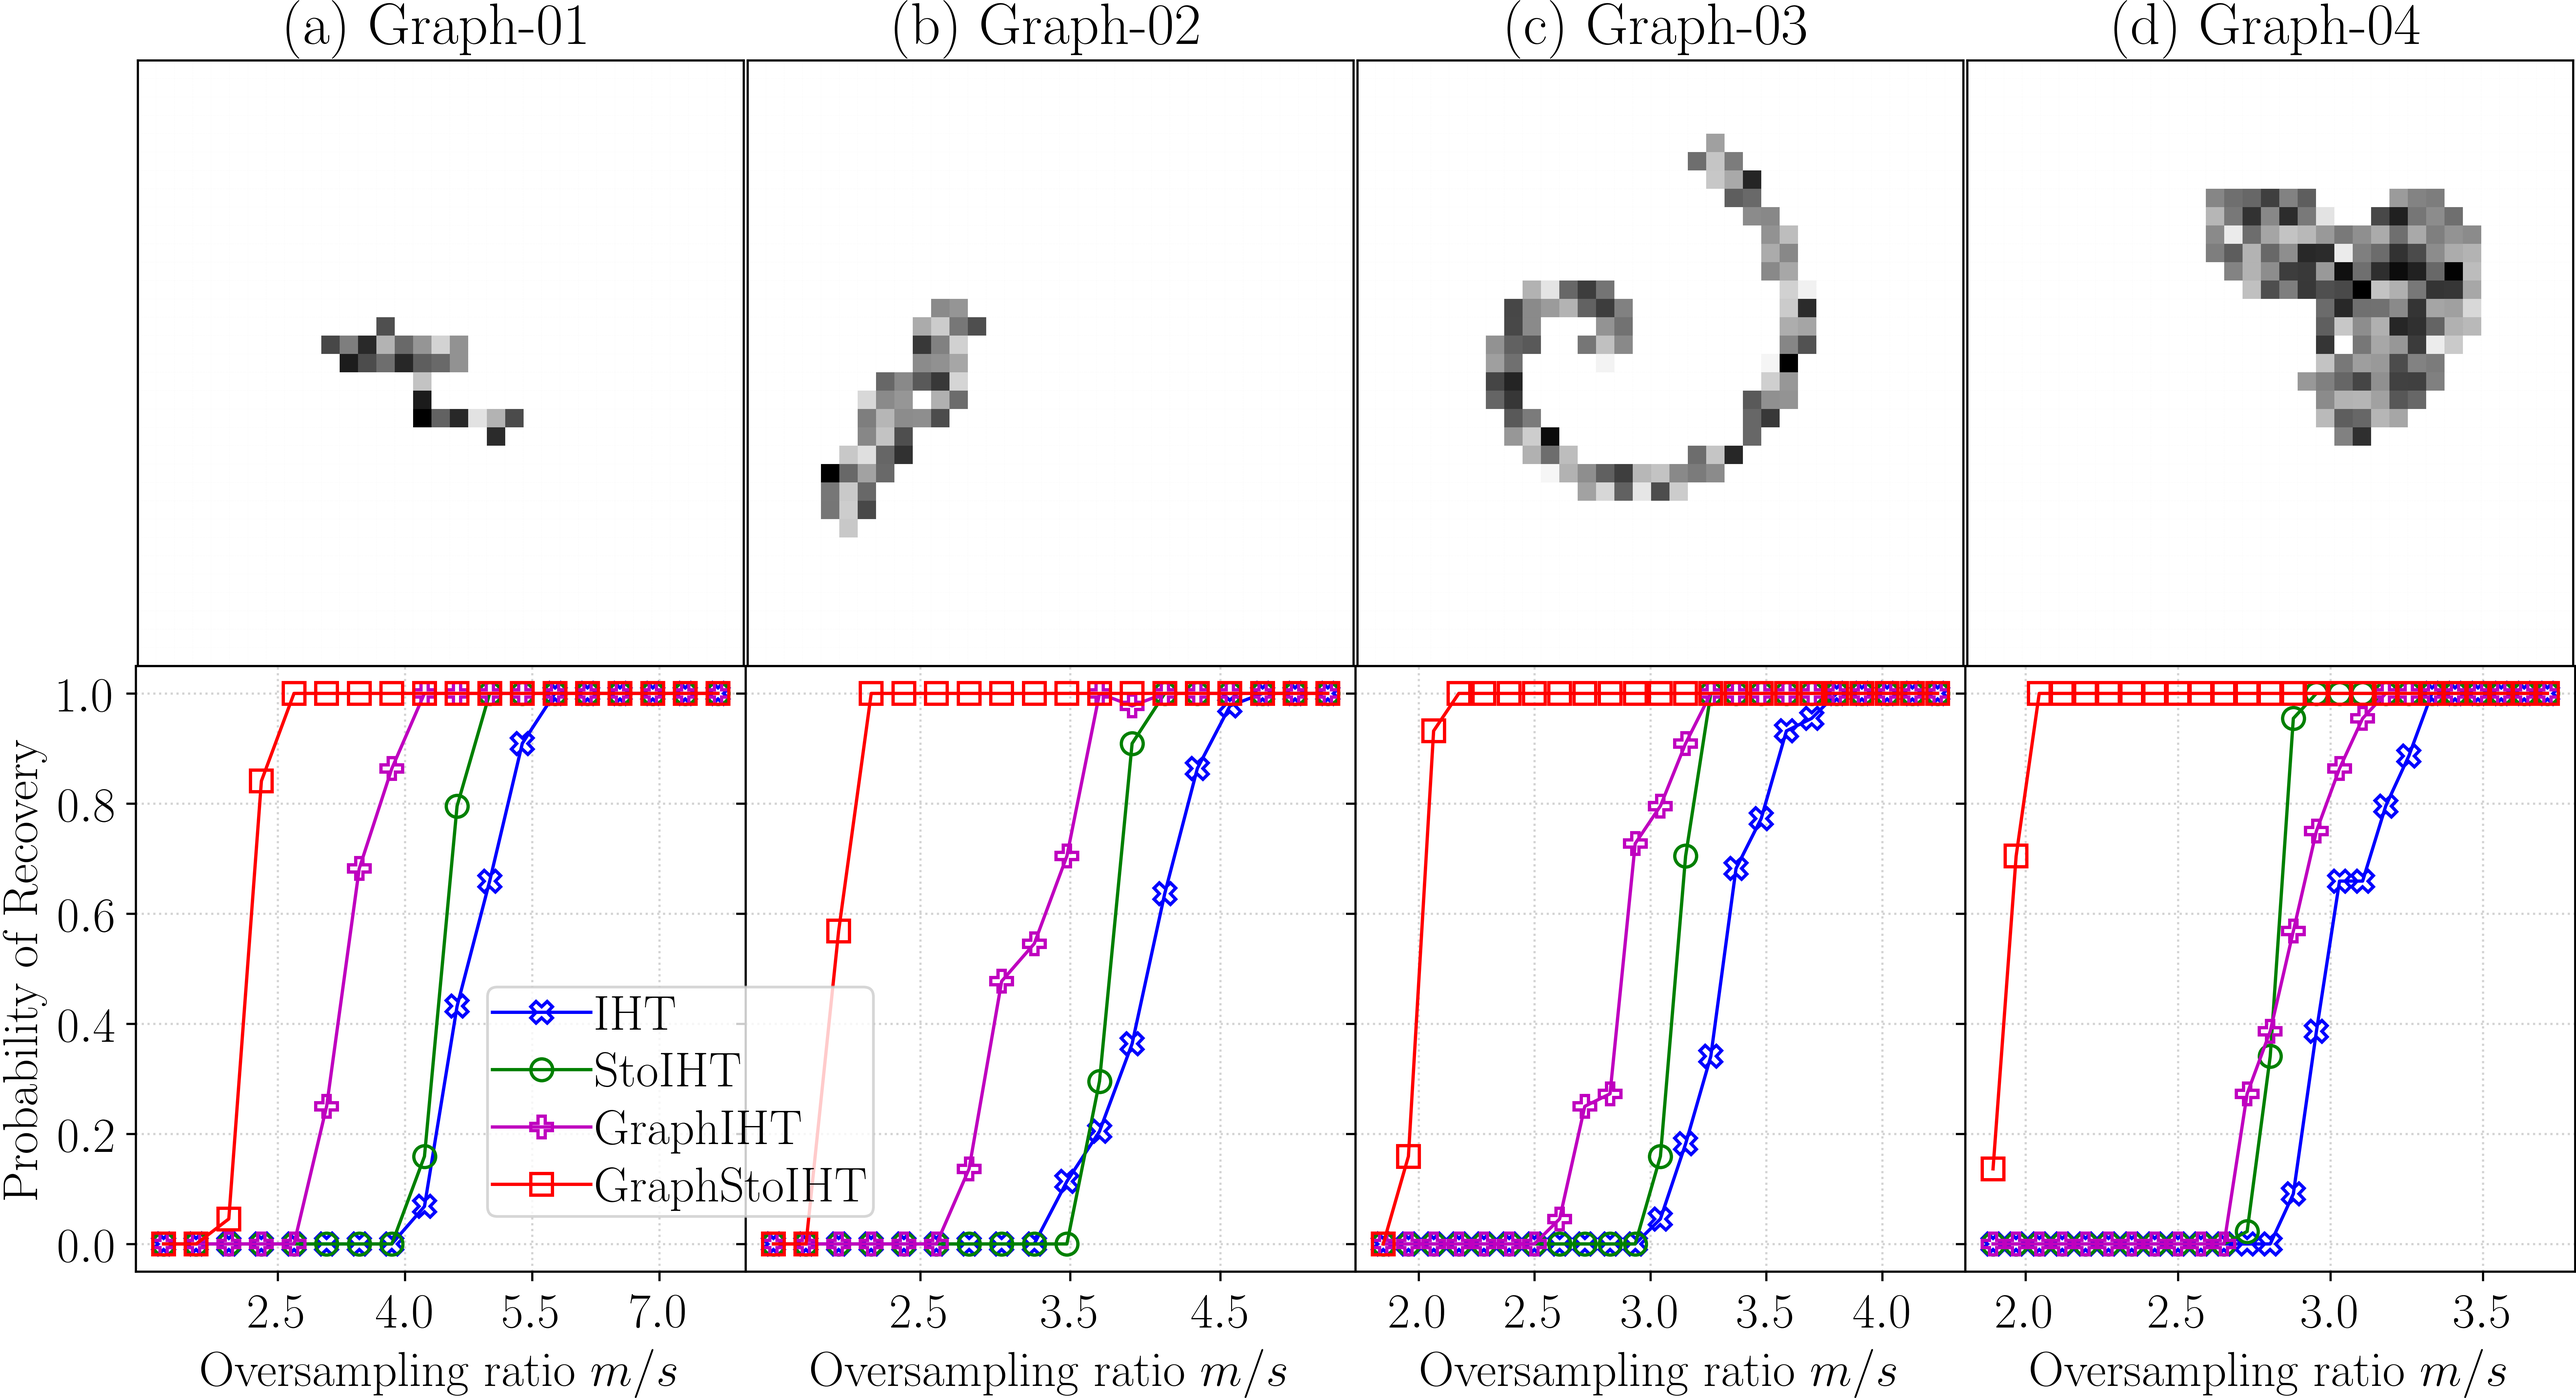
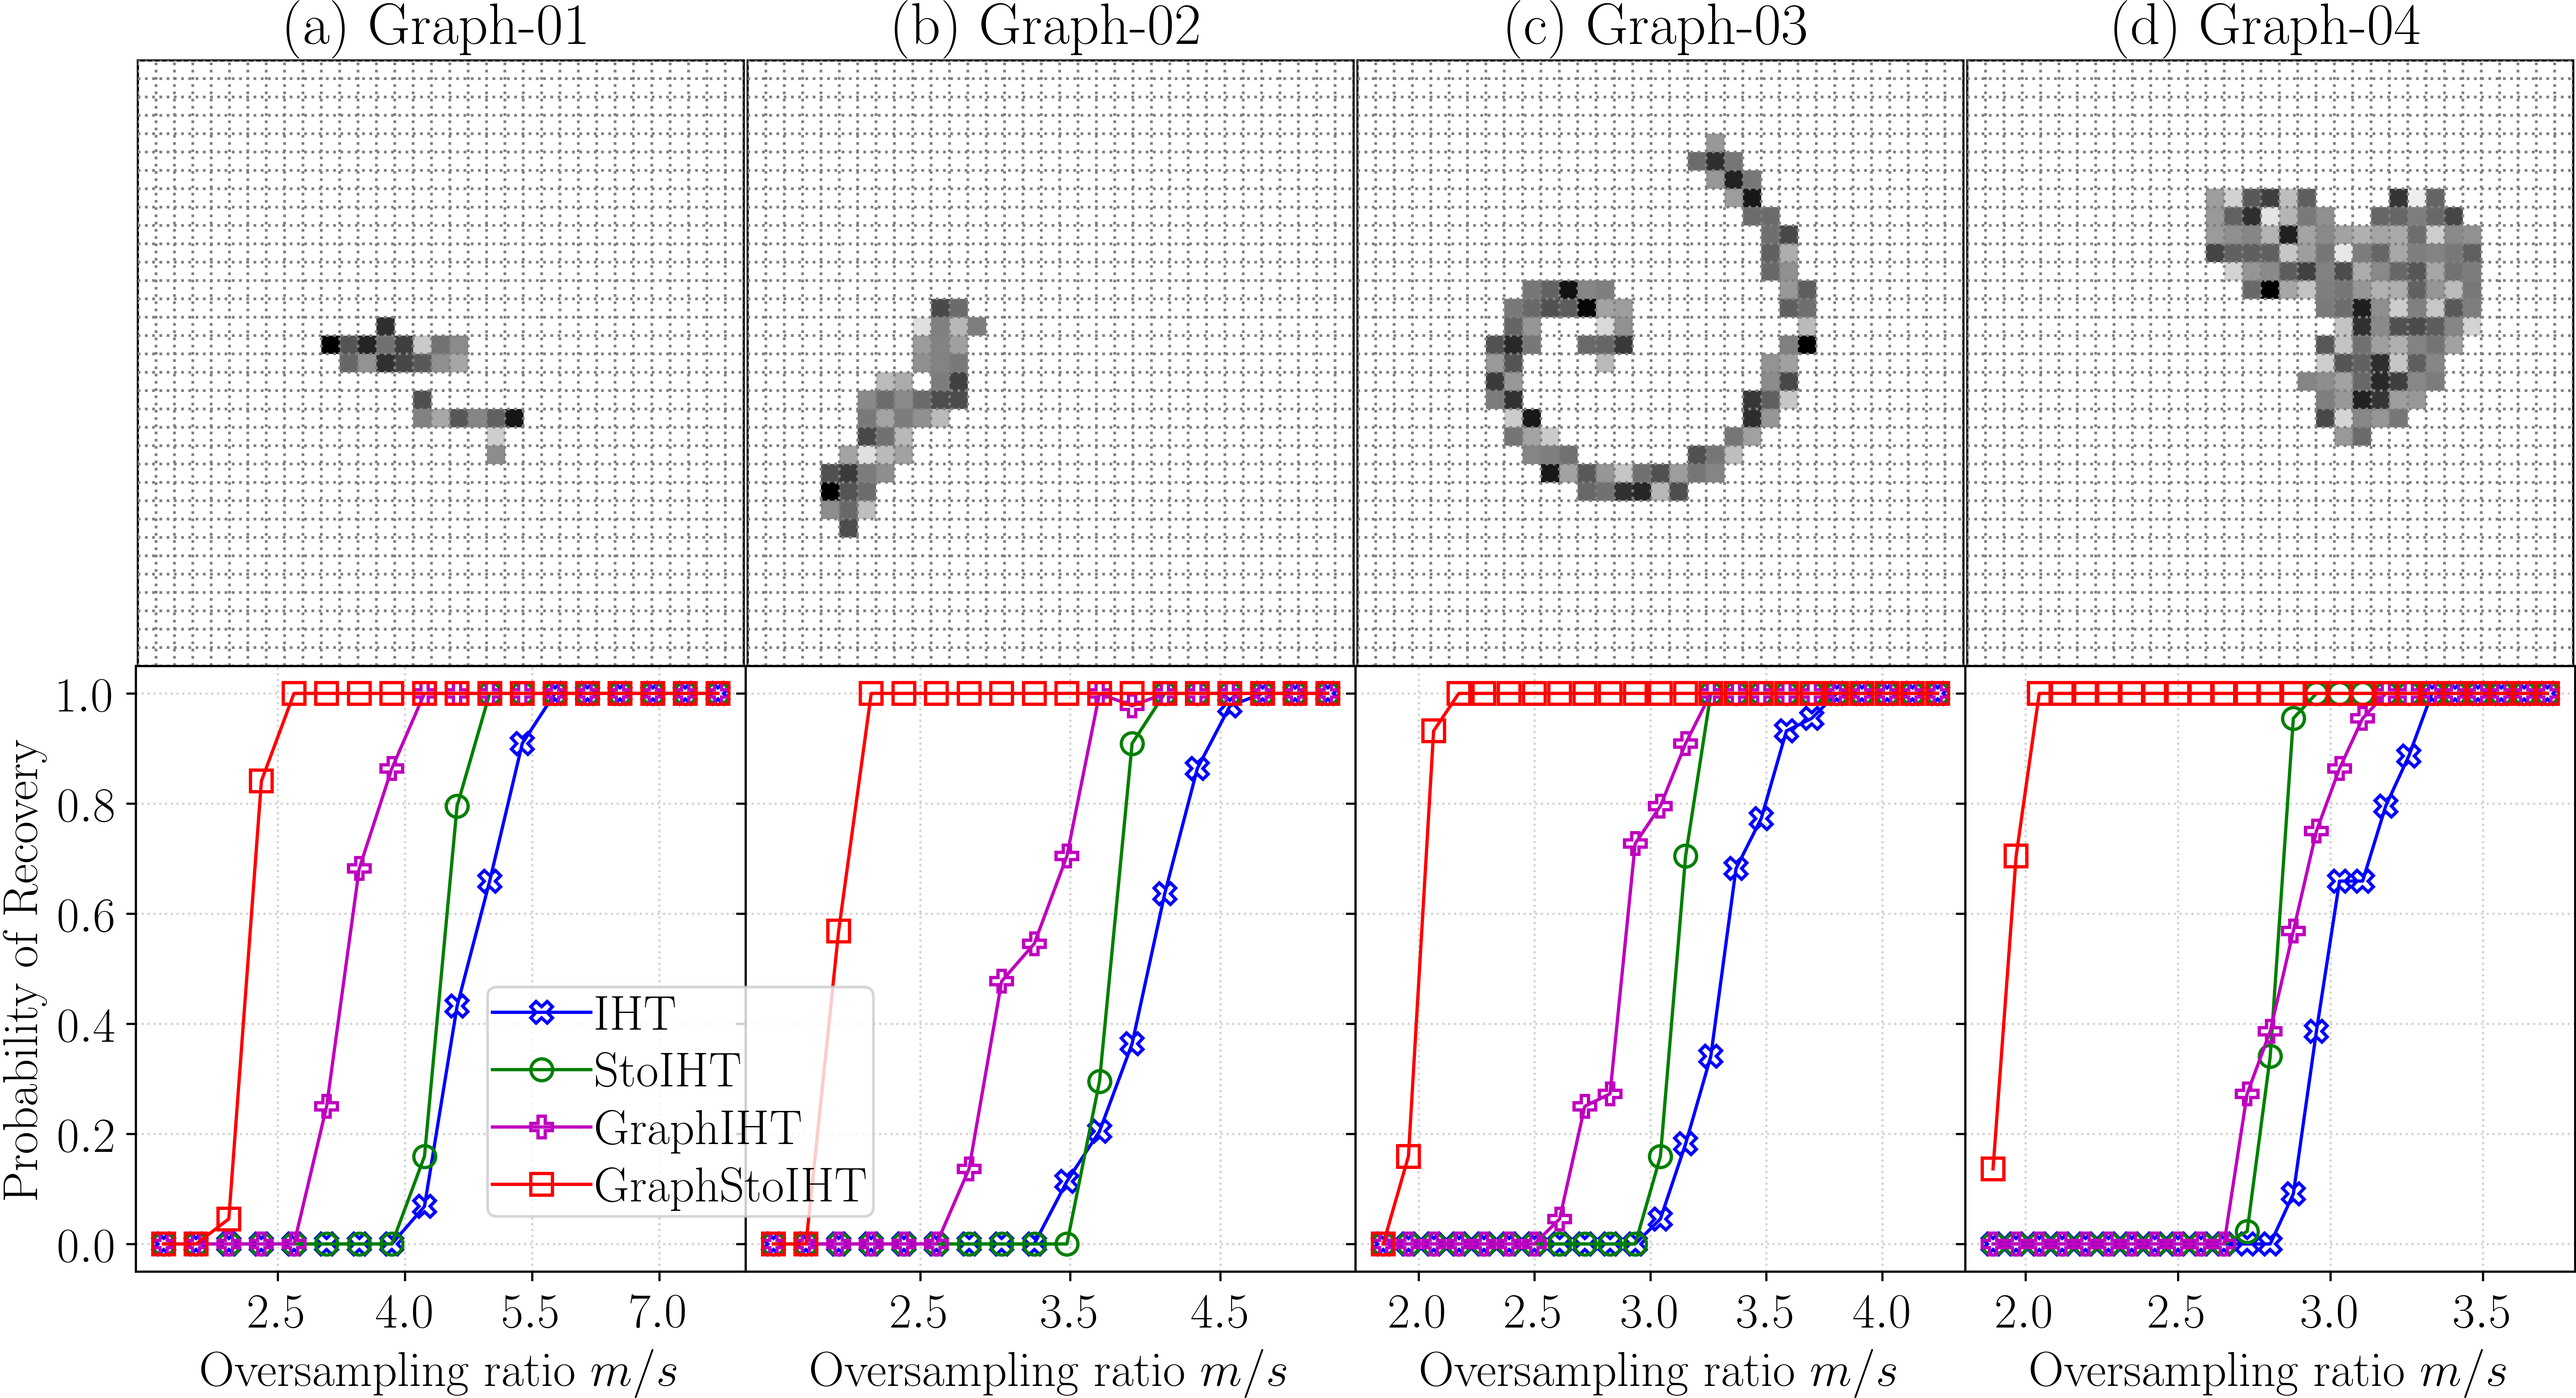
update

Changed region(s): [[0.0624, 0.0624, 1.0, 0.4677]]

diff --git a/exp_sr_test04.py b/exp_sr_test04.py
@@ -607,10 +607,10 @@ def show_test(n_range_list, method_list, title_list, fig_list, root_p):
             i, j = node_id / height, node_id % width
             x_star[i, j] = np.random.normal(0.0, 1.0)
         for i in range(height + 1):
-            ax[0, fig_ind].axhline(i, lw=.01, color='gray',
+            ax[0, fig_ind].axhline(i, lw=1.0, color='gray',
                                    linestyle='dotted', zorder=5)
         for i in range(width + 1):
-            ax[0, fig_ind].axvline(i, lw=.01, color='gray',
+            ax[0, fig_ind].axvline(i, lw=1.0, color='gray',
                                    linestyle='dotted', zorder=5)
         ax[0, fig_ind].imshow(x_star, interpolation='none', cmap='binary',
                               extent=[0, height, 0, width], zorder=0)
